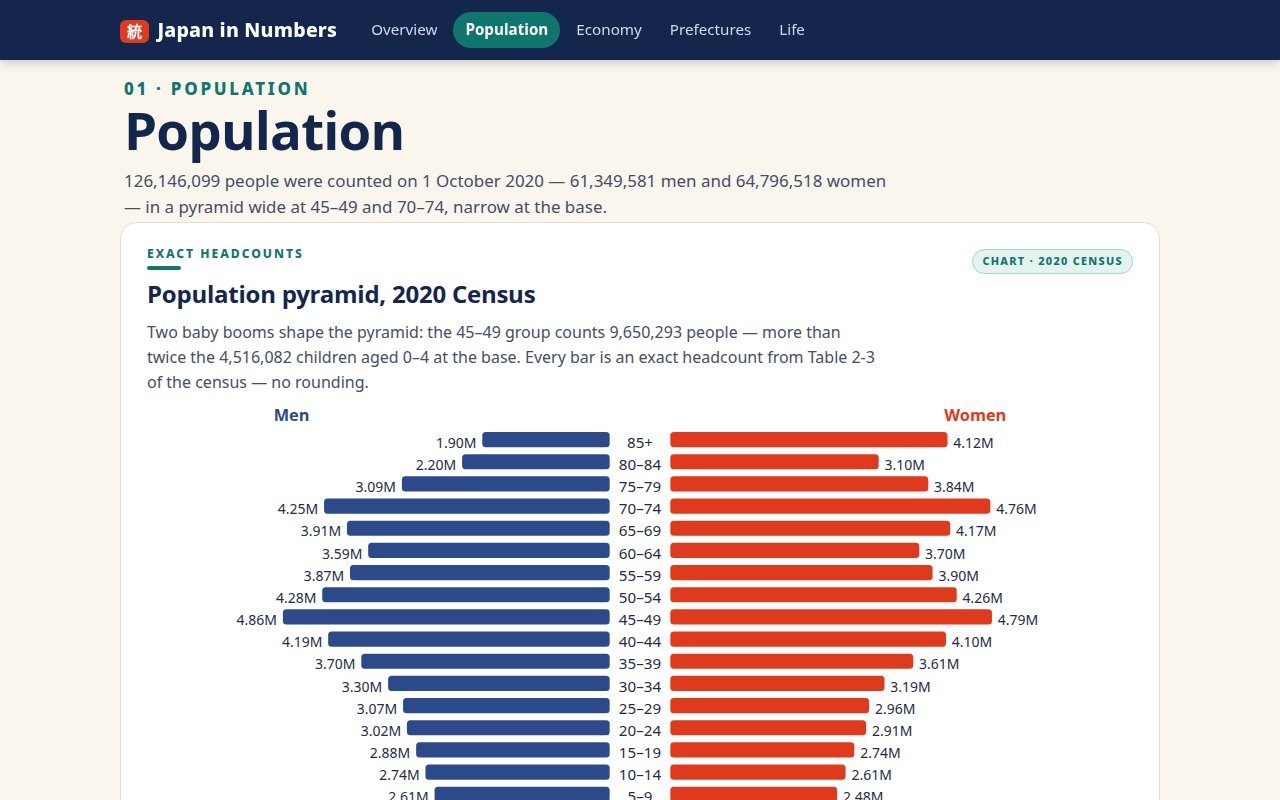
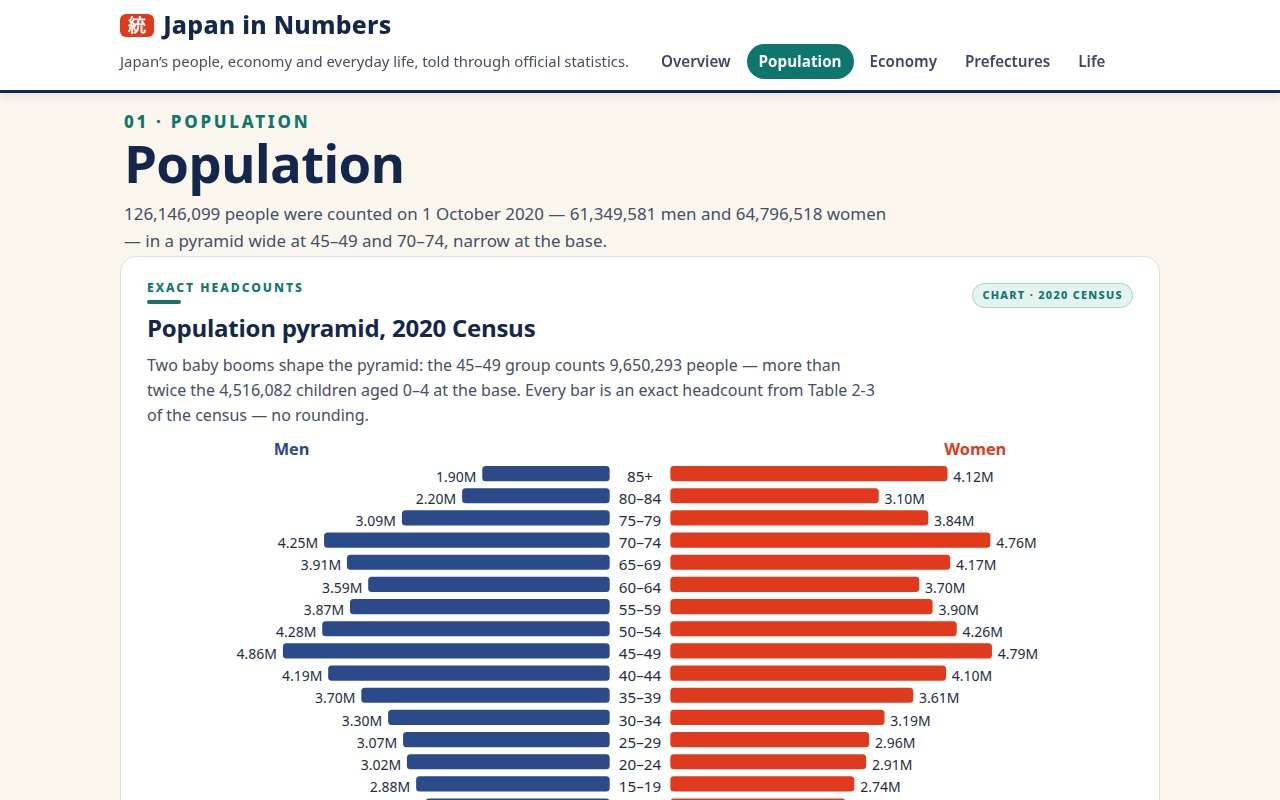
v6.1 (build only, NOT submitted): full-bleed photo with overlaid title, two-row white masthead

diff --git a/app/style.css b/app/style.css
@@ -62,34 +62,45 @@ body {
   font-family: "Hiragino Kaku Gothic ProN", "Hiragino Sans", "Noto Sans JP",
     "Segoe UI", system-ui, -apple-system, Arial, sans-serif;
   line-height: 1.55;
+  /* The cover photograph is viewport-width (100vw); clip guards
+     against a classic scrollbar making that a hair too wide. Clip —
+     unlike hidden — creates no scroll container, so the sticky
+     masthead keeps working. */
+  overflow-x: clip;
 }
 
 /* Header + navigation ------------------------------------------------------ */
+/* The masthead is a warm white bar — deliberately a different colour
+   from the deep-navy band in the middle of the cover below it. It is
+   a consolidated two-row block: the brand on the first row, then the
+   one-line summary and the section buttons together on the second. */
 .site-header {
-  background: var(--indigo);
-  color: #fff;
+  background: #fff;
+  color: var(--indigo);
   position: sticky;
   top: 0;
   z-index: 10;
-  box-shadow: 0 2px 10px rgba(27, 42, 82, 0.25);
+  border-bottom: 3px solid var(--indigo);
+  box-shadow: 0 2px 10px rgba(27, 42, 82, 0.12);
 }
 
 .header-inner {
   max-width: 1080px;
   margin: 0 auto;
-  padding: 12px 20px;
+  padding: 10px 20px 11px;
   display: flex;
-  align-items: center;
-  gap: 22px;
-  flex-wrap: wrap;
+  flex-direction: column;
+  align-items: flex-start;
+  gap: 5px;
 }
 
 .brand {
-  color: #fff;
+  color: var(--indigo);
   text-decoration: none;
   font-weight: 800;
-  font-size: 1.22rem;
+  font-size: 1.55rem;
   letter-spacing: 0.01em;
+  line-height: 1.15;
   white-space: nowrap;
 }
 
@@ -98,9 +109,23 @@ body {
   background: var(--vermillion);
   color: #fff;
   border-radius: 6px;
-  padding: 0 7px;
-  margin-right: 8px;
-  font-size: 0.95rem;
+  padding: 1px 8px;
+  margin-right: 9px;
+  font-size: 1.12rem;
+  vertical-align: 2px;
+}
+
+.header-sub {
+  display: flex;
+  align-items: center;
+  gap: 6px 20px;
+  flex-wrap: wrap;
+}
+
+.header-lede {
+  margin: 0;
+  font-size: 0.93rem;
+  color: #454e68;
 }
 
 .site-nav {
@@ -110,16 +135,17 @@ body {
 }
 
 .site-nav a {
-  color: #cfd8ef;
+  color: #3c4767;
   text-decoration: none;
   padding: 6px 12px;
   border-radius: 999px;
   font-size: 0.95rem;
+  font-weight: 600;
 }
 
 .site-nav a:hover {
-  color: #fff;
-  background: rgba(255, 255, 255, 0.12);
+  color: var(--indigo);
+  background: rgba(20, 38, 76, 0.08);
 }
 
 .site-nav a.active {
@@ -152,32 +178,51 @@ body {
   margin-bottom: 2px;
 }
 
-/* The cover hero: a deep-navy poster band that bleeds to the edges of
-   the page column. Title, one giant census figure, and the prefecture
-   tile map — the whole first impression in a single block. */
-.hero {
+/* The cover photograph: the census.gov move, taken full-bleed — the
+   Marunouchi towers over the Imperial Palace plaza stretch edge to
+   edge across the whole viewport, and the atlas title block sits ON
+   the photograph, over a navy scrim that deepens to the left where
+   the words are. The 100vw / 50% margin pair centres the band on the
+   page column it breaks out of. */
+.cover-photo {
+  position: relative;
+  width: 100vw;
+  margin-left: calc(50% - 50vw);
   background: var(--indigo);
-  color: #fff;
-  margin: 0 -20px 16px;
-  padding: 0 36px 10px;
-  border-radius: 0 0 18px 18px;
+  overflow: hidden;
 }
 
-/* The census.gov move: a real photograph across the top of the cover —
-   the Marunouchi towers over the Imperial Palace plaza — with the
-   navy poster content flowing on below it. The band bleeds to the
-   hero's edges; the file is pre-cropped to a wide strip so it ships
-   small. */
-.hero-photo {
-  margin: 0 -36px;
-}
-
-.hero-photo img {
+.cover-photo img {
   display: block;
   width: 100%;
-  height: 116px;
+  height: 236px;
   object-fit: cover;
-  object-position: center 30%;
+  object-position: center 38%;
+}
+
+.cover-photo::after {
+  content: '';
+  position: absolute;
+  inset: 0;
+  background: linear-gradient(
+    100deg,
+    rgba(15, 27, 54, 0.88) 0%,
+    rgba(15, 27, 54, 0.68) 44%,
+    rgba(15, 27, 54, 0.24) 70%,
+    rgba(15, 27, 54, 0) 90%
+  );
+}
+
+.cover-photo-text {
+  position: absolute;
+  inset: 0;
+  z-index: 1;
+  display: flex;
+  flex-direction: column;
+  justify-content: center;
+  max-width: 1080px;
+  margin: 0 auto;
+  padding: 0 36px;
 }
 
 .hero-kicker {
@@ -186,15 +231,28 @@ body {
   letter-spacing: 0.18em;
   text-transform: uppercase;
   font-size: 0.82rem;
-  margin: 12px 0 6px;
+  margin: 0 0 6px;
+  text-shadow: 0 1px 10px rgba(10, 20, 40, 0.45);
 }
 
-.hero h1 {
-  font-size: 3.15rem;
+.cover-photo-text h1 {
+  font-size: 3.3rem;
   line-height: 1.04;
   letter-spacing: -0.015em;
   margin: 0 0 8px;
   color: #fff;
+  text-shadow: 0 2px 16px rgba(10, 20, 40, 0.4);
+}
+
+/* The middle band: a deep-navy poster panel that bleeds to the edges
+   of the page column — one giant census figure and the prefecture
+   tile map, directly under the photograph. */
+.hero {
+  background: var(--indigo);
+  color: #fff;
+  margin: 0 -20px 16px;
+  padding: 12px 36px 10px;
+  border-radius: 0 0 18px 18px;
 }
 
 .page-head h1 {
@@ -209,7 +267,7 @@ body {
   display: flex;
   gap: 8px;
   flex-wrap: wrap;
-  margin: 12px 0 0;
+  margin: 2px 0 0;
 }
 
 .hero-chip {
@@ -231,9 +289,10 @@ body {
 
 .hero-lede {
   font-size: 1.08rem;
-  color: #c7d2ec;
+  color: #d9e2f4;
   max-width: 46em;
   margin: 0;
+  text-shadow: 0 1px 10px rgba(10, 20, 40, 0.45);
 }
 
 .page-head p {
@@ -261,14 +320,14 @@ body {
   align-items: start;
   margin-top: 12px;
   border-top: 1px solid rgba(255, 255, 255, 0.22);
-  padding-top: 10px;
+  padding-top: 8px;
 }
 
 /* Cover tiles run a little flatter than the prefectures-page ones so
    the whole map — and a first glimpse of the KPI row — fits the
    cover frame. */
 .hero .tile {
-  aspect-ratio: 2.25;
+  aspect-ratio: 2.65;
 }
 
 .hero-figure-label {
@@ -1049,16 +1108,16 @@ h1[tabindex="-1"]:focus {
     grid-template-columns: 1fr;
   }
   .hero {
-    padding: 0 24px 20px;
+    padding: 14px 24px 20px;
   }
-  .hero-photo {
-    margin: 0 -24px;
+  .cover-photo img {
+    height: 228px;
   }
-  .hero-photo img {
-    height: 128px;
+  .cover-photo-text {
+    padding: 0 24px;
   }
-  .hero h1 {
-    font-size: 2.7rem;
+  .cover-photo-text h1 {
+    font-size: 2.6rem;
   }
   .page-head h1 {
     font-size: 2.5rem;
@@ -1067,8 +1126,22 @@ h1[tabindex="-1"]:focus {
 
 @media (max-width: 520px) {
   .header-inner {
-    gap: 10px;
+    gap: 6px;
     padding: 10px 14px;
+  }
+  .brand {
+    font-size: 1.32rem;
+  }
+  .brand .brand-mark {
+    font-size: 0.98rem;
+  }
+  .header-sub {
+    flex-direction: column;
+    align-items: flex-start;
+    gap: 6px;
+  }
+  .header-lede {
+    font-size: 0.88rem;
   }
   .site-nav a {
     padding: 5px 9px;
@@ -1079,14 +1152,34 @@ h1[tabindex="-1"]:focus {
   }
   .hero {
     margin: 0 -12px 18px;
-    padding: 0 18px 20px;
+    padding: 14px 18px 20px;
     border-radius: 0 0 14px 14px;
   }
-  .hero-photo {
-    margin: 0 -18px;
+  .cover-photo img {
+    height: 236px;
   }
-  .hero-photo img {
-    height: 102px;
+  /* On a narrow screen the title block spans most of the photo's
+     width, so the scrim stays deep much further across. */
+  .cover-photo::after {
+    background: linear-gradient(
+      100deg,
+      rgba(15, 27, 54, 0.92) 0%,
+      rgba(15, 27, 54, 0.82) 55%,
+      rgba(15, 27, 54, 0.45) 85%,
+      rgba(15, 27, 54, 0.25) 100%
+    );
+  }
+  .cover-photo-text {
+    padding: 0 18px;
+  }
+  .cover-photo-text h1 {
+    font-size: 2.1rem;
+  }
+  .hero-kicker {
+    font-size: 0.72rem;
+  }
+  .hero-lede {
+    font-size: 0.95rem;
   }
   .ticker {
     margin: 0 -12px 14px;
@@ -1100,8 +1193,8 @@ h1[tabindex="-1"]:focus {
     font-size: 0.6rem;
     padding: 2px 7px;
   }
-  .hero h1 {
-    font-size: 2.35rem;
+  .cover-photo-text h1 {
+    font-size: 2.1rem;
   }
   .page-head {
     padding-top: 22px;

diff --git a/app/index.html b/app/index.html
@@ -11,13 +11,16 @@
 <header class="site-header">
   <div class="header-inner">
     <a class="brand" href="#/"><span class="brand-mark">統</span>Japan in Numbers</a>
-    <nav class="site-nav" aria-label="Atlas sections">
-      <a href="#/" data-route="overview">Overview</a>
-      <a href="#/population" data-route="population">Population</a>
-      <a href="#/economy" data-route="economy">Economy</a>
-      <a href="#/prefectures" data-route="prefectures">Prefectures</a>
-      <a href="#/life" data-route="life">Life</a>
-    </nav>
+    <div class="header-sub">
+      <p class="header-lede">Japan’s people, economy and everyday life, told through official statistics.</p>
+      <nav class="site-nav" aria-label="Atlas sections">
+        <a href="#/" data-route="overview">Overview</a>
+        <a href="#/population" data-route="population">Population</a>
+        <a href="#/economy" data-route="economy">Economy</a>
+        <a href="#/prefectures" data-route="prefectures">Prefectures</a>
+        <a href="#/life" data-route="life">Life</a>
+      </nav>
+    </div>
   </div>
 </header>
 

diff --git a/app/views.js b/app/views.js
@@ -240,11 +240,16 @@ export function renderOverview() {
     .join('');
 
   return `
+  <div class="cover-photo">
+    <img src="hero-tokyo.jpg" alt="The Marunouchi office towers of Tokyo, seen across the Imperial Palace plaza">
+    <div class="cover-photo-text">
+      <p class="hero-kicker">Nippon Statistics Atlas</p>
+      <h1>Japan in Numbers</h1>
+      <p class="hero-lede">Japan’s people, economy and everyday life, told through official statistics.</p>
+    </div>
+  </div>
+
   <section class="hero">
-    <div class="hero-photo"><img src="hero-tokyo.jpg" alt="The Marunouchi office towers of Tokyo, seen across the Imperial Palace plaza"></div>
-    <p class="hero-kicker">Nippon Statistics Atlas</p>
-    <h1>Japan in Numbers</h1>
-    <p class="hero-lede">Japan’s people, economy and everyday life, told through official statistics.</p>
     <p class="hero-strip">
       <span class="hero-chip">2020 Census</span>
       <span class="hero-chip">47 prefectures</span>
